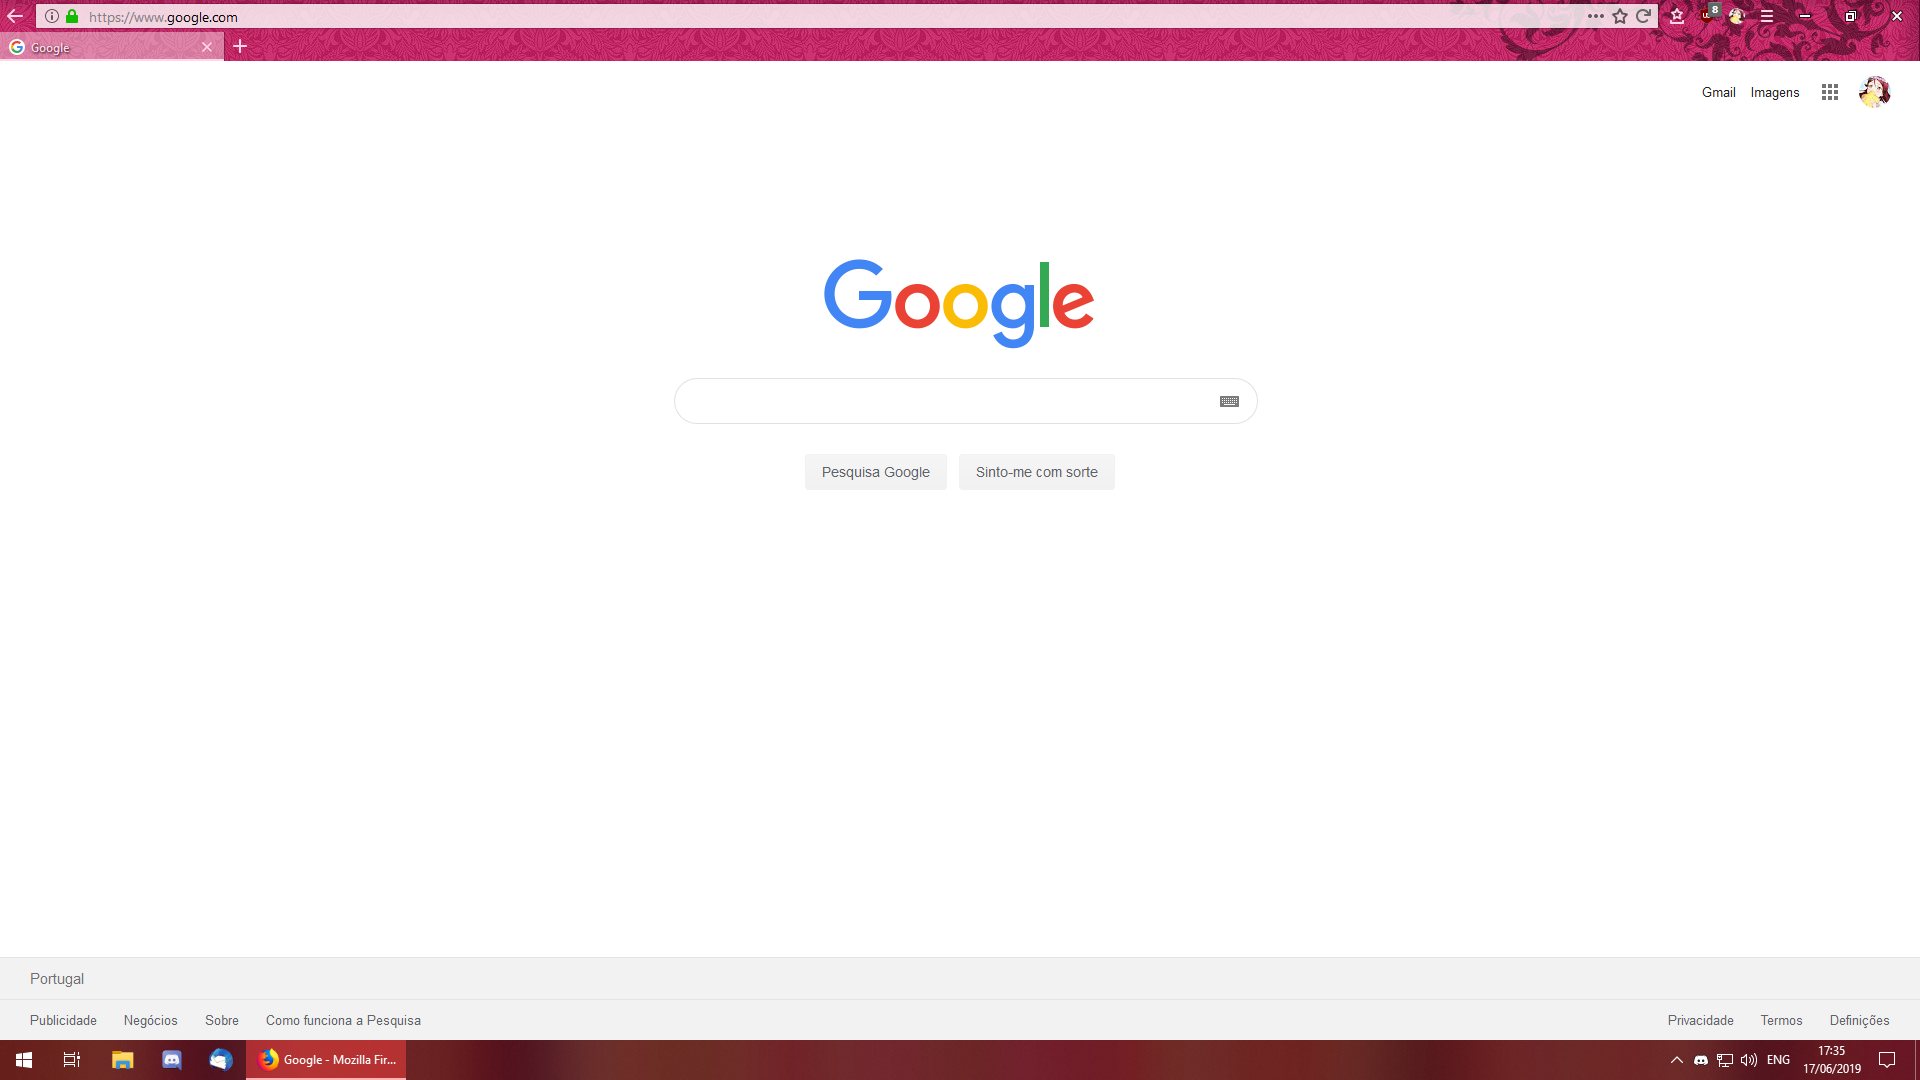
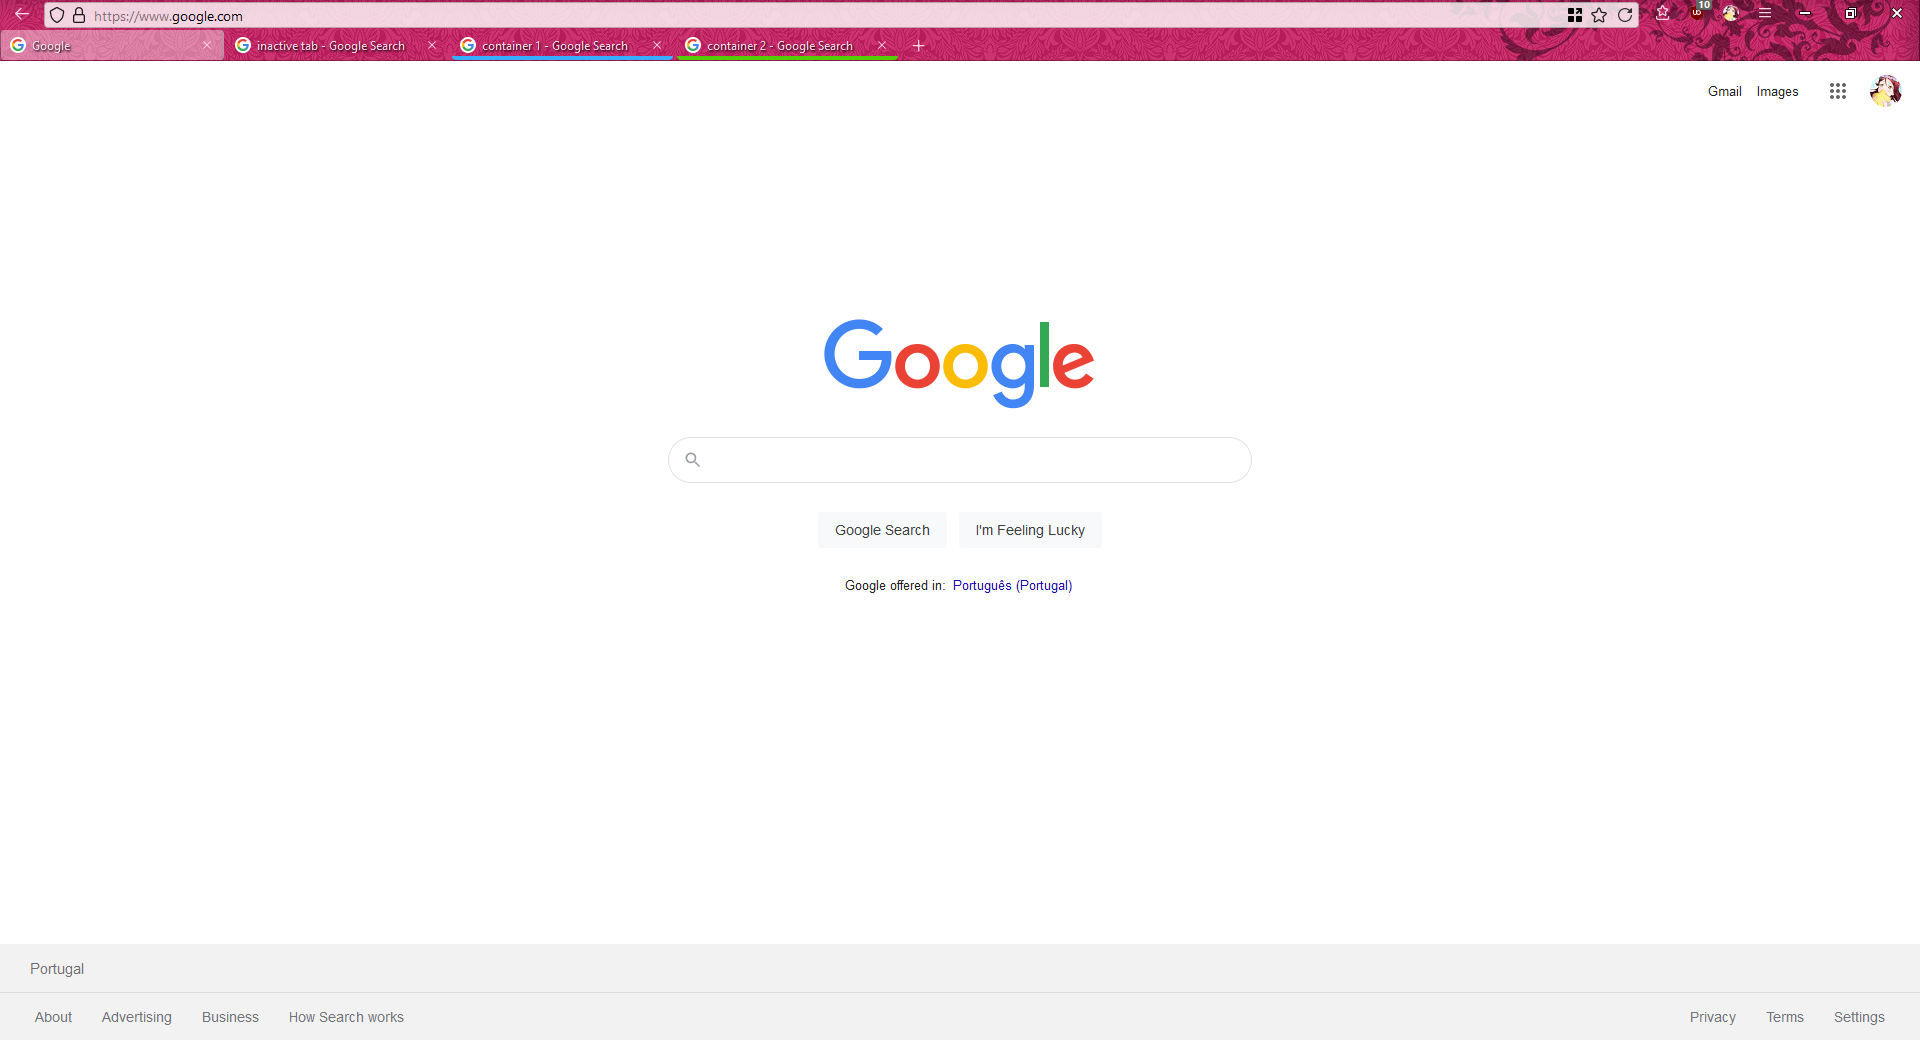
v89 fix

diff --git a/userChrome.css b/userChrome.css
@@ -15,7 +15,7 @@
 .tabbrowser-tab .tab-line,
 #TabsToolbar,
 .tabbrowser-tab .tab-bottom-line {
-   -moz-box-ordinal-group: 2;
+  -moz-box-ordinal-group: 2;
 }
 
 
@@ -43,7 +43,7 @@
 #TabsToolbar{
   margin-bottom: 0px !important;
   border-bottom: 0px solid #5f7181 !important;
- }
+}
 
 
 
@@ -90,7 +90,7 @@
 }
 
 #stop-reload-button .toolbarbutton-icon, #stop-button .toolbarbutton-icon, #reload-button .toolbarbutton-icon{
-  fill: rgb(102,102,102);
+  fill: #333333;
   height: 24px !important;
   width: 28px !important;
   padding: 4px !important;
@@ -102,6 +102,7 @@
   border-radius: 0px !important;
   z-index: 10 !important;
   margin-right: -32px;
+  margin-top: 4px;
 }
 
 #wrapper-stop-reload-button .chromeclass-toolbar-additional{
@@ -128,10 +129,6 @@
 
 
 /** TABS BOTTOM **/
-
-/* Modify to change window drag space width 
-:root[tabsintitlebar="true"] #nav-bar{ --window-drag-space-width: 24px }*/
-
 #TabsToolbar .titlebar-buttonbox-container {
   display: block;
   position: absolute;
@@ -148,15 +145,105 @@
 :root[uidensity="compact"] .titlebar-buttonbox-container{ height: 32px }
 .titlebar-buttonbox-container > .titlebar-buttonbox{ height: 100%; }
 #titlebar{
- -moz-box-ordinal-group: 2;
+  -moz-box-ordinal-group: 2;
   -moz-appearance: none !important;
 }
 :root[tabsintitlebar="true"] #nav-bar{
   padding-right: calc(138px + var(--window-drag-space-width,0px));
   padding-left: var(--window-drag-space-width,0px);
-  padding-top: 6px;
+  padding-top: 4px;
+
 }
 .titlebar-placeholder,
 #TabsToolbar .titlebar-spacer{ display: none; }
 /* Also hide the toolbox bottom border which isn't at bottom with this setup */
 #navigator-toolbox::after{ display: none !important; }
+
+
+
+
+/* REMOVE MEGABAR START
+ * VERSION 1.0.3
+ * CODE AT: http://userchrome.wesleybranton.com/megabar
+ * RELEASE NOTES: http://userchrome.wesleybranton.com/notes/megabar */
+@-moz-document url(chrome://browser/content/browser.xhtml) {
+    /* DISABLE EXPANDING START */
+    #urlbar[breakout][breakout-extend] {
+        top: calc((var(--urlbar-toolbar-height) - var(--urlbar-height)) / 2) !important;
+        left: 0 !important;
+        width: 100% !important;
+    }
+    
+    #urlbar[breakout][breakout-extend] > #urlbar-input-container {
+        height: var(--urlbar-height) !important;
+        padding-block: 0 !important;
+        padding-inline: 0 !important;
+    }
+    
+    #urlbar[breakout][breakout-extend] > #urlbar-background {
+        animation-name: none !important;
+        box-shadow: 0 1px 4px rgba(0, 0, 0, .05) !important;
+    }
+    /* DISABLE EXPANDING END */
+    
+    /* REMOVE URL RESULT PADDING START */
+    .urlbarView {
+        margin-inline: 0 !important;
+        width: 100% !important;
+    }
+
+    .urlbarView-row {
+        padding-block: 0 !important;
+    }
+    /* REMOVE URL RESULT PADDING END */
+    
+    /* MOVE URL RESULT TYPE ICON TO LEFT START */
+    .urlbarView-type-icon {
+        min-width: 16px !important;
+        height: 16px !important;
+        margin-bottom: 0 !important;
+        margin-inline-start: 0 !important;
+    }
+    
+    .urlbarView-favicon {
+        margin-inline-start: 20px !important;
+    }
+    /* MOVE URL RESULT TYPE ICON TO LEFT END */
+}
+/* REMOVE MEGABAR END */
+
+
+
+/* light theme context menu */
+menupopup{
+  --menuitem-hover-background-color: #e0e0e6 !important;
+  --menu-background-color: #f9f9fb !important;
+  --menu-color: #15141a !important;
+  --menuitem-disabled-hover-background-color: rgba(224, 224, 230, 0.4) !important;
+  --menu-disabled-color: rgba(21, 20, 26, 0.4) !important;
+  --menu-border-color: #cfcfd8!important;
+  --menu-icon-opacity: 0.7 !important;
+}
+menupopup > menuitem,
+menupopup > menu{ padding-block: 0.3em !important; }
+
+
+/* remove extra white space from the tabs toolbar */
+#TabsToolbar {
+  --proton-tab-block-margin: 0px !important;
+}
+
+
+
+/* move containers identity color to inside the tab, at the bottom*/
+.tabbrowser-tab[usercontextid] > .tab-stack > .tab-background > .tab-context-line {
+  display: none;
+}
+
+.tabbrowser-tab[class*="identity-color-"] .tab-background {
+  background: linear-gradient(0, var(--identity-tab-color) 4px, transparent 0);
+}
+
+.tabbrowser-tab[selected="true"][class*="identity-color-"] .tab-background {
+  background: linear-gradient(0, var(--identity-tab-color) 4px, var(--toolbar-bgcolor, transparent) 0) !important;
+}

diff --git a/australis_menu.css b/australis_menu.css
@@ -73,20 +73,15 @@ photonpanelmultiview .panel-subview-body{
   padding: 6px 10px !important;
 }
 
-#widget-overflow-mainView, .widget-overflow-list, #widget-overflow-fixed-list{
-  min-width: unset !important;
-  width: 266px !important;
+#widget-overflow-fixed-list{
+  display: grid;
+  grid-template-columns: auto auto auto;
 }
 
 .titlebar-button:hover {
     background-color: Highlight !important;
 }
 
-
-/* rotate the arrows down
-#nav-bar-overflow-button .toolbarbutton-icon{
-  transform: rotate(90deg) !important;
-}*/
 
 
 /* removes the hamburger button */

diff --git a/README.md b/README.md
@@ -7,7 +7,7 @@ My current firefox setup.
 * https://github.com/MrOtherGuy/firefox-csshacks
 * https://www.reddit.com/r/FirefoxCSS/
 
-The code blocks were mainly copied from the above sources, with a few changes made by me.
+The snippets were mainly copied from the above sources, with a few changes made by me.
 
 ## Screenshots
 
